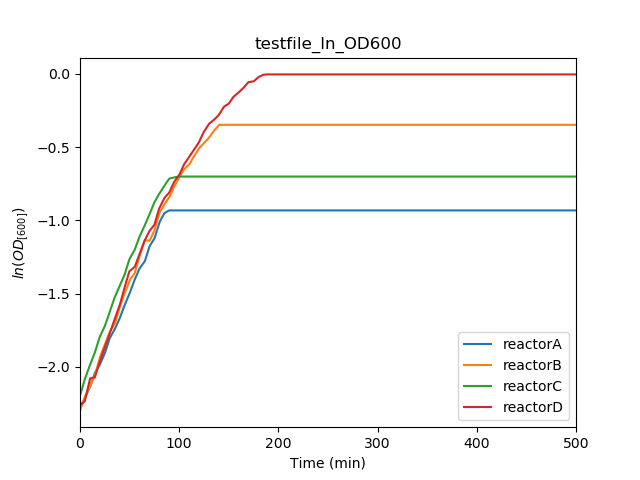
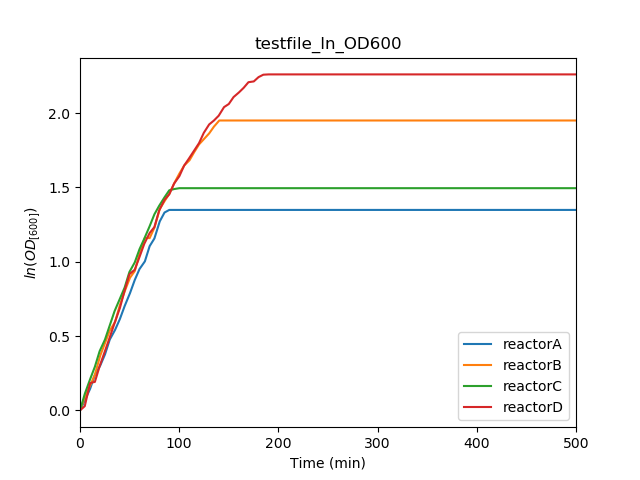
Now aligns to ln(OD)- ln(OD)t[0]
All growth-rates now cross 0 as I subtract ln(OD) time 0. This means that growthrates should be nicely aligned now.

diff --git a/calculations.py b/calculations.py
@@ -26,7 +26,6 @@ def align_array(array, allignment_OD):
     # allign_df['ln(OD600)'] = allign_df['ln(OD600)']-perfect_allign_OD
     # allign_df['OD'] = [math.exp(a) for a in allign_df['ln(OD600)'].values]
     
-    
     return allign_df
 
 
@@ -42,6 +41,10 @@ def pandas_array(array, allignment_OD):
     pandasOD = np.concatenate((array, log_array.reshape(-1,1)), axis=1)
     pandas_array = pd.DataFrame(pandasOD, columns=(["Time (min)", "OD", "ln(OD600)"]))
     pandas_array_align = align_array(pandas_array, allignment_OD)
+    pandas_array_align_baseline = np.log(pandas_array_align['OD'].values[0])
+    pandas_array_align = pandas_array_align.assign(
+    align_lnOD = lambda dataframe: dataframe['OD'].map(lambda OD: np.log(OD) - pandas_array_align_baseline)
+    )
     return pandas_array, pandas_array_align
 
 
@@ -65,7 +68,7 @@ def generate_LN_plot(pandas_df, reactorname):
     pandas_df.set_index('new_time', inplace=True)
 
     fig, ax = plt.subplots()
-    pandas_df.groupby("group")['ln(OD600)'].plot(ax=ax, legend=True, title=reactorname+'_ln_OD600')
+    pandas_df.groupby("group")['align_lnOD'].plot(ax=ax, legend=True, title=reactorname+'_ln_OD600')
     ax.set_xlabel("Time (min)")
     ax.set_ylabel(r'$ln(OD_{[600]})$')
     ax.set_xlim(0,500)
@@ -90,7 +93,7 @@ def calculate_growthrate(pandasreactor, reactorname, subreactor_name, allignment
 
         #here is the actual modelling
         X = current_reactor_growthrate.get('new_time').values.reshape(-1, 1)  # values converts it into a numpy array
-        Y = current_reactor_growthrate.get('ln(OD600)').values.reshape(-1, 1)  # -1 means that calculate the dimension of rows, but have 1 column
+        Y = current_reactor_growthrate.get('align_lnOD').values.reshape(-1, 1)  # -1 means that calculate the dimension of rows, but have 1 column
         linear_regressor = LinearRegression()  # create object for the class
         linear_regressor.fit(X, Y)  # perform linear regression
         Y_pred = linear_regressor.predict(X)  # make predictions
